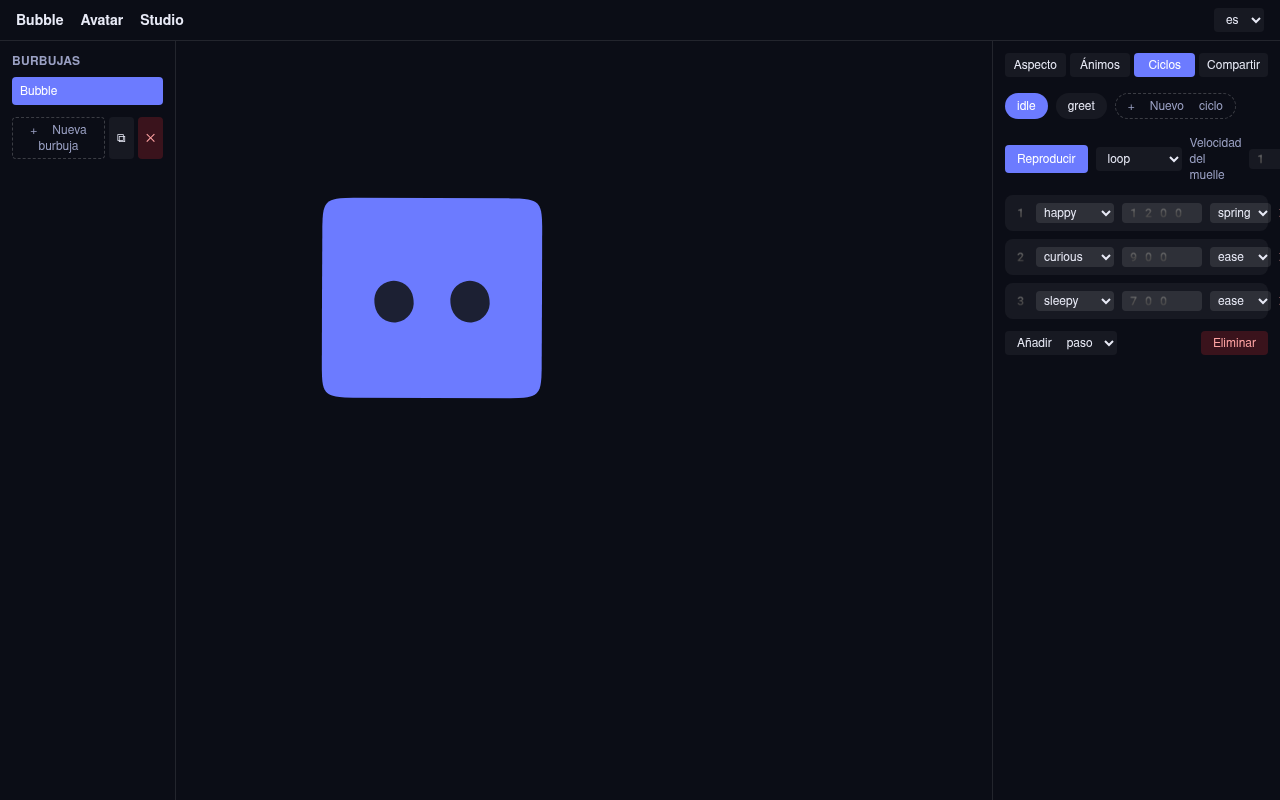
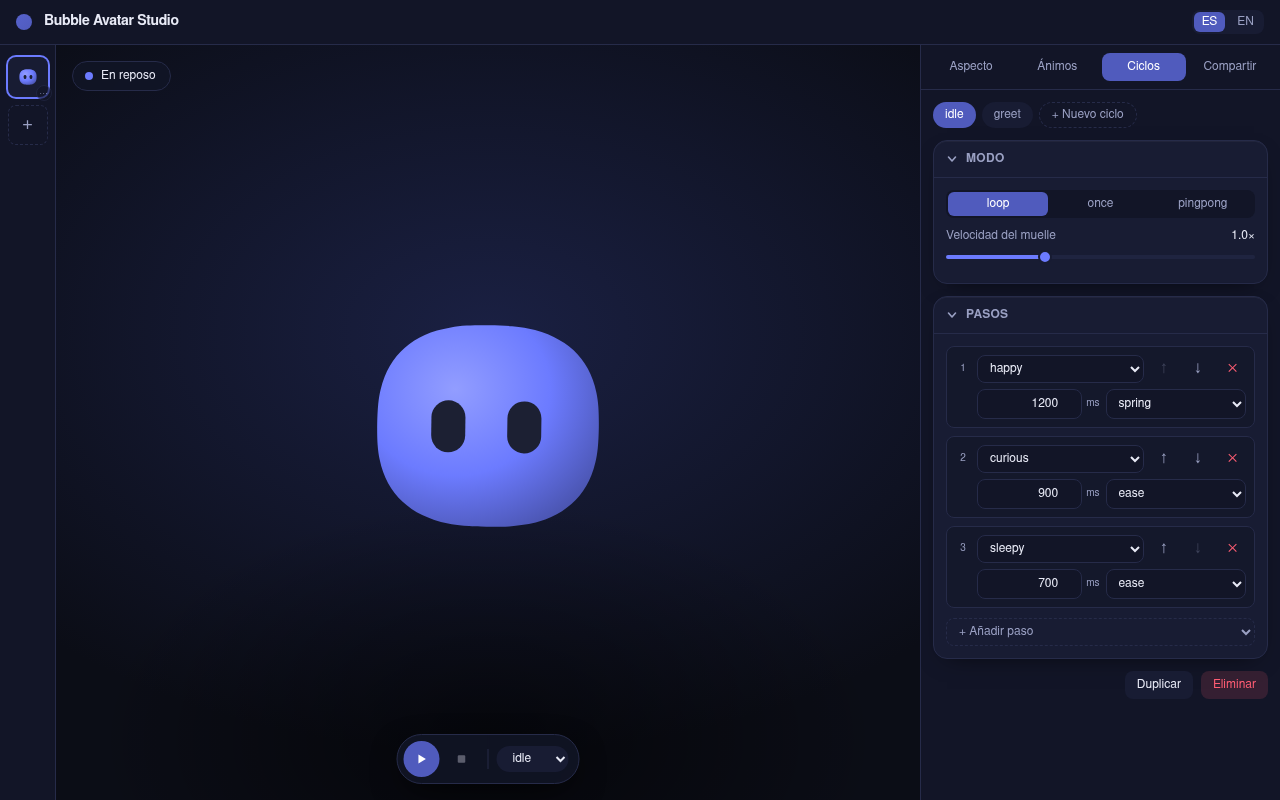
Widen the visual smoke and record what the UI pass actually built
Adds a rail context-menu scenario to the Playwright smoke, updates the
existing three for the transport moving to the stage dock, and refreshes
the archived screenshots. They are artifacts for manual review against
docs/05, not goldens — the stage runs ambient idle motion, so pixels
differ between runs.

docs/05 now marks each item [built] or [target] so an unmarked sentence
stops reading as a claim about what runs, and records the measured
56px / 360px the shell actually ships. The roadmap splits P4 into what
landed and what is still open, and names the two a11y gaps the docs
audit surfaced. README re-derives the gate at 223 tests across 22 files.

Claude-Session: https://claude.ai/code/session_01QUb44eBd4gZMCKsVHBP7vC

diff --git a/e2e/smoke.spec.ts b/e2e/smoke.spec.ts
@@ -5,6 +5,16 @@ import { expect, test } from "@playwright/test";
 
 const SHOTS = "docs/screenshots";
 
+/**
+ * Panel transitions run for 150ms (docs/05 §4). Capturing straight after a
+ * click archives a frame mid-fade, where the tab strip still highlights the
+ * previous tab — settle first so the screenshots show a resting UI.
+ */
+async function shoot(page: import("@playwright/test").Page, name: string) {
+  await page.waitForTimeout(250);
+  await page.screenshot({ path: `${SHOTS}/${name}.png` });
+}
+
 test("boot: studio shell renders with a starter bubble", async ({ page }) => {
   await page.goto("/");
   await expect(
@@ -12,8 +22,11 @@ test("boot: studio shell renders with a starter bubble", async ({ page }) => {
   ).toBeVisible();
   await expect(page.getByLabel("bubble stage")).toBeVisible();
   await expect(page.getByRole("tab", { name: "Aspecto" })).toBeVisible();
-  await expect(page.getByRole("button", { name: "+ Nueva burbuja" })).toBeVisible();
-  await page.screenshot({ path: `${SHOTS}/boot.png` });
+  await expect(page.getByRole("button", { name: "Nueva burbuja" })).toBeVisible();
+  // Transport lives on the stage dock now (docs/05 §1).
+  await expect(page.getByRole("button", { name: "Reproducir" })).toBeVisible();
+  await expect(page.getByRole("status")).toContainText("En reposo");
+  await shoot(page, "boot");
 });
 
 test("panels: look, moods, loops and share tabs expose their controls", async ({
@@ -23,40 +36,49 @@ test("panels: look, moods, loops and share tabs expose their controls", async ({
 
   // Look is the default tab.
   await expect(page.getByText("Perspectiva")).toBeVisible();
-  await page.screenshot({ path: `${SHOTS}/panel-look.png` });
+  await shoot(page, "panel-look");
 
   await page.getByRole("tab", { name: "Ánimos" }).click();
   await expect(
     page.getByRole("button", { name: "Nuevo ánimo" }),
   ).toBeVisible();
-  await page.screenshot({ path: `${SHOTS}/panel-moods.png` });
+  await shoot(page, "panel-moods");
 
   await page.getByRole("tab", { name: "Ciclos" }).click();
   await expect(page.getByRole("button", { name: "+ Nuevo ciclo" })).toBeVisible();
-  await page.screenshot({ path: `${SHOTS}/panel-loops.png` });
+  await shoot(page, "panel-loops");
 
   await page.getByRole("tab", { name: "Compartir" }).click();
-  await expect(page.getByRole("heading", { name: "Photo Mode" })).toBeVisible();
+  await expect(page.getByRole("button", { name: /Photo Mode/ })).toBeVisible();
   await expect(
     page.getByRole("button", { name: ".bubble-avatar.json" }),
   ).toBeVisible();
-  await page.screenshot({ path: `${SHOTS}/panel-share.png` });
+  await shoot(page, "panel-share");
 });
 
 test("playing loop: transport toggles playback and the stage animates", async ({
   page,
 }) => {
   await page.goto("/");
-  await page.getByRole("tab", { name: "Ciclos" }).click();
 
   const play = page.getByRole("button", { name: "Reproducir" });
   await expect(play).toBeVisible();
   await play.click();
-  await expect(
-    page.getByRole("button", { name: "Pausar" }),
-  ).toBeVisible();
+  await expect(page.getByRole("button", { name: "Pausar" })).toBeVisible();
+  await expect(page.getByRole("status")).toContainText("Reproduciendo");
 
   // Let the StageEngine advance a few frames so the capture shows motion.
   await page.waitForTimeout(600);
-  await page.screenshot({ path: `${SHOTS}/playing-loop.png` });
+  await shoot(page, "playing-loop");
+});
+
+test("rail: the context menu carries rename, reorder and delete", async ({
+  page,
+}) => {
+  await page.goto("/");
+  await page.getByRole("button", { name: "Acciones de la burbuja" }).click();
+  const menu = page.getByRole("menu");
+  await expect(menu.getByRole("menuitem", { name: "Duplicar" })).toBeVisible();
+  await expect(menu.getByRole("menuitem", { name: "Eliminar" })).toBeVisible();
+  await shoot(page, "rail-menu");
 });

diff --git a/docs/05-ui-design.md b/docs/05-ui-design.md
@@ -5,9 +5,12 @@
 
 > **This is a target, not a description.** Written before the UI existed, it
 > still describes where the studio is going. Items marked **[built]** exist
-> today; **[target]** ones do not yet, and are tracked as roadmap P4. Measured
-> sizes below are the target — the shell currently ships a 176px rail and a
-> 288px inspector. Do not read an unmarked sentence as a claim about what runs.
+> today; **[target]** ones do not yet, and are tracked as roadmap P4. Do not
+> read an unmarked sentence as a claim about what runs.
+>
+> The rail and inspector now ship at the documented sizes (56px / 360px,
+> `w-14` / `w-90`); an earlier note here recorded them as 176px and 288px,
+> which the P4 UI pass closed.
 
 ## 1. Layout
 
@@ -26,27 +29,31 @@
 - **Rail (56px):** vertical bubble thumbnails (live mini-renders), active
   highlighted, `+` at bottom. Context menu (right-click / kebab): rename,
   duplicate, move up/down, delete (confirm).
-  **[built]** the list, active highlight, add, duplicate, delete-with-confirm.
-  **[target]** thumbnails, rename, move up/down, the context menu itself.
+  **[built]** all of the above: the list with live mini-render thumbnails,
+  active highlight, add, and a per-bubble context menu (kebab or right-click)
+  carrying rename, duplicate, move up/down and delete-with-confirm. The menu
+  closes on Escape or an outside click.
 - **Stage:** soft radial gradient backdrop (indigo-950→black), bubble centered.
   Overlays: top-left status pill (`● playing idle` / `paused`), top-right gizmo
   button, bottom transport dock (play/pause/stop + loop selector dropdown).
   **Drag turns the head** (FR-8.1, amended — see `docs/02` and the session-2
   recon notes); position is set numerically in the Look panel. Esc restores the
   pre-drag rotation.
-  **[built]** drag-to-turn with Esc restore, and the projected surface the face
-  is anchored to. **[target]** the status pill, the gizmo and its rotation pad,
-  the bottom transport dock, and the guide overlay (FR-8.4) — playback controls
-  currently live in the Loops panel instead of on the stage.
+  **[built]** drag-to-turn with Esc restore, the projected surface the face is
+  anchored to, the radial backdrop, the top-left status pill (dot + words, so
+  state never rests on colour alone) and the bottom transport dock with its
+  loop selector. The dock owns playback for the whole app and is reachable from
+  every tab; it hides itself when the kit has no loops (FR-5.2).
+  **[target]** the gizmo and its rotation pad, and the guide overlay (FR-8.4).
 - **Inspector (360px):** tab strip + scrollable panel.
 
 ## 2. Panels
 
 ### Look (body & resting face)
 
-**[built]** every section below, and an Ambient card for idle motion (FR-7.1),
-though the cards do not collapse yet. **[target]** collapsing, and
-drag-to-scrub on the numeric labels (FR-9.5).
+**[built]** every section below, and an Ambient card for idle motion (FR-7.1).
+The cards collapse and reopen, remembering nothing across a reload by design.
+**[target]** drag-to-scrub on the numeric labels (FR-9.5).
 
 Sections as collapsible cards:
 
@@ -62,9 +69,10 @@ Sections as collapsible cards:
 ### Moods
 
 **[built]** the card grid with true mini-renders, click-to-preview on the stage,
-the delta sliders, the colour override and cancelable edits. **[target]** the
-modal editor, per-eye editing with mirror, rename/duplicate/reorder, and the
-kebab menu.
+the delta sliders (each with a translated label, its own range and a unit), the
+colour override with a clear action, duplicate, and cancelable edits.
+**[target]** the modal editor, per-eye editing with mirror, rename/reorder, and
+the kebab menu.
 
 - Grid of mood cards (mini stage render + name), `+` card. Click = preview on
   stage (FR-4.4); double-click = open **Mood editor** (modal over inspector):
@@ -77,9 +85,11 @@ kebab menu.
 ### Loops
 
 **[built]** the loop list, step list with hold and transition per step, add and
-remove step, playback mode, springSpeed, and play/pause/stop. **[target]**
-grouping chips, drag-reorder and the ‹ › fallback, the blink card, the loop
-summary (FR-5.8), and rename/duplicate.
+remove step, the accessible ↑ ↓ reorder fallback, playback mode as a segmented
+control, springSpeed, and loop duplicate. Playback itself moved to the stage
+dock, so this panel no longer carries transport buttons. **[target]** grouping
+chips, drag-reorder itself, the blink card, the loop summary (FR-5.8), and loop
+rename.
 
 - Left: loop list grouped by `group` label (Life / Reactions custom chips);
   `+` new loop. Selecting a loop loads the **timeline**.
@@ -88,7 +98,8 @@ summary (FR-5.8), and rename/duplicate.
   (buttons ‹ › as accessible fallback); `+` opens mood picker; ✕ removes step.
 - Loop settings row: mode segmented control (Loop / Once / Ping-pong),
   springSpeed slider 0.1–3, blink card (toggle + min/max interval + duration).
-- Transport "Play" always plays the selected loop.
+- Transport "Play" always plays the selected loop. It lives on the stage dock
+  (§1), which shares its loop selection with this panel.
 
 ### Share (export)
 
@@ -110,16 +121,56 @@ The language control ships in the header rather than this panel.
 
 ## 3. Interaction states & a11y
 
-- Every numeric input: label + unit suffix, ↑↓ steppers, arrow-key support.
-- Focus rings visible on dark stage; all actions keyboard-reachable; drag
-  operations have button fallbacks.
-- Empty states: no bubbles → stage shows "Crea tu primera bubble" + `+` hint.
-- Destructive actions (delete bubble/loop/mood, import replace) always confirm.
-- Color contrast ≥ 4.5:1 for text; status pill uses dot + text (not color only).
+- **[built]** Every numeric input: label + unit suffix, ↑↓ steppers, arrow-key
+  support (`NumberField` in `panels/look/fields.tsx`).
+- **[built]** Focus rings visible on dark stage — a single `:focus-visible`
+  rule in `styles.css` paints the accent on every surface. Reorder actions have
+  button fallbacks (rail move up/down, step ↑ ↓).
+- **[built]** Empty state: no bubbles → "Crea tu primera bubble" + `+` hint.
+- **[built]** Destructive actions confirm: deleting a **bubble** (FR-1.5), a
+  **loop**, or a **mood**, and replacing the project on **import** (FR-9.3).
+  Re-derive with
+  `grep -rn "confirm(" src/app --include=*.tsx | grep -v test`, which should
+  return four guarded call sites. A confirmed mood delete can still be refused
+  by the reducer if a loop references it (E_REF, FR-5.6) — the gate and the
+  invariant are independent.
+- **[built]** Status pill uses dot + text, not colour alone. Every text pair
+  clears 4.5:1 and every non-text mark clears 3:1 — asserted in
+  `src/app/theme.test.ts`, which parses the real tokens out of `styles.css`, so
+  a palette edit that breaks the rule fails the suite instead of shipping.
+  Run `pnpm vitest run src/app/theme.test.ts` to re-derive rather than trusting
+  this line.
 
 ## 4. Visual language
 
-- Font: system stack (`Inter` fallback); radius 12–16px cards; 8px spacing grid.
-- Palette: bg `#0b0d16` stage / `#121527` panels; primary `#6c7bff`; accent
-  `#8be9ff`; text `#e8eaf6`; danger `#ff5d73`. (Tailwind theme tokens.)
-- Motion: panel transitions ≤ 160ms ease-out; stage animation owned by engine.
+All three bullets are **[built]** as Tailwind v4 `@theme` tokens in
+`src/app/styles.css`; components reference them by utility name (`bg-panel`,
+`text-ink-dim`, `rounded-card`) rather than repeating hex literals.
+
+- Font: `Inter` first in `--font-sans`, falling back to the system stack;
+  `--radius-card` is 14px, inside the documented 12–16px. Spacing runs on
+  Tailwind's 4px base (`--spacing: .25rem`) using 8px and 12px steps — a finer
+  grid than the 8px this section originally specified.
+- Palette: bg `#0b0d16` stage / `#121527` panels; accent `#8be9ff`; text
+  `#e8eaf6`; danger `#ff5d73` all ship verbatim.
+
+  **The primary moved.** This section originally specified primary `#6c7bff`,
+  and the UI used it as the fill behind white text. That pairing measures
+  3.55:1 — under the 4.5:1 §3 requires — and the hover fill was worse at
+  2.66:1. The indigo therefore split by role, keeping the same hue (234°):
+  `--color-primary` `#505bbd` (5.88:1) and `--color-primary-hi` `#5662cc`
+  (5.23:1) for fills that carry text, and `--color-brand` `#6c7bff` — the
+  original value — for marks that never sit behind text: the active rail ring,
+  the slider fill and thumb, the resting status dot.
+
+  Note the avatar's own default body colour is still `#6c7bff`; it lives in
+  `domain/document/create.ts` as document data, is independent of these chrome
+  tokens, and is a fill rather than text, so the text rule does not apply.
+
+  The implementation also adds surface tokens the original palette did not
+  name — `--color-stage-glow` (stage backdrop), `--color-panel-2` /
+  `--color-panel-3` (card and control grounds), `--color-line` (borders) and
+  `--color-ink-dim`.
+- Motion: panel transitions are 150ms ease-out, inside the ≤ 160ms budget;
+  stage animation is owned by the engine. A `prefers-reduced-motion` block
+  collapses every transition to ~0ms.

diff --git a/docs/07-testing-strategy.md b/docs/07-testing-strategy.md
@@ -19,7 +19,8 @@
 | `export/`        | Vitest                           | Avatar/project file builders (round-trip: export → validate → import → deep-equal), loop pruning, orphan-mood pruning, error codes                                             |
 | `app/` UI        | Vitest + Testing Library (jsdom) | User flows: create bubble, edit mood deltas with cancel restoring stage, linked-eye mirroring, loop step reorder keeps moodId, import confirmation gate, i18n key parity es/en |
 | `runtime/`       | Vitest + Testing Library         | Renders resting face from a definition; starts/pauses; identical SVG vs studio for same state (FR-10.4)                                                                        |
-| Visual smoke     | Playwright (F5 only)             | Screenshots of studio boot, each panel, a playing loop; manual review vs `05-ui-design.md`                                                                                     |
+| Theme a11y       | Vitest (parses `styles.css`)     | Contrast ratios computed from the real tokens: >= 4.5:1 for every text pair, >= 3:1 for non-text marks (`docs/05` §3). A palette edit that breaks the rule fails here             |
+| Visual smoke     | Playwright (F5 only)             | Screenshots of studio boot, each panel, a playing loop and the rail context menu; asserts the stage dock and status pill; manual review vs `05-ui-design.md`                   |
 
 ## 3. Timing tests (the critical ones — FR-6.3)
 
@@ -51,9 +52,14 @@ described them as existing before they were written.
 
 ## 4b. Current state (re-derive; do not trust)
 
-As of the P2 parity work: **21 Vitest files, 195 tests**, plus **1 Playwright
-spec** covering boot, panels and a playing loop. Production bundle 254.96 kB JS
-/ 13.98 kB CSS (78.27 / 3.54 gzipped).
+As of the P4 UI pass: **22 Vitest files, 223 tests**, plus **1 Playwright
+spec** of **4 scenarios** covering boot, panels, a playing loop and the rail
+context menu. Production bundle 267.09 kB JS / 26.20 kB CSS (81.73 / 5.74
+gzipped).
+
+The CSS roughly doubled against the P2 figure recorded here before
+(13.98 kB): the design tokens, the collapsible-card chrome and the explicit
+range/swatch styling in `styles.css` are all new surface area.
 
 Re-derive rather than trusting these: `pnpm test` prints the file and test
 counts, `pnpm build` prints the bundle sizes. They are recorded here as a

diff --git a/docs/08-roadmap.md b/docs/08-roadmap.md
@@ -74,12 +74,28 @@ Bring the app level with what the concept demands, per the feature inventory in
   control in the Look panel.
 - **P3** Content: a starter library of at least 24 moods (FR-4.7) and at least
   20 loops grouped life/reaction (FR-5.7), all original.
-- **P4** Remaining UI surfaces: loop rename/duplicate, step reorder, blink card
-  and loop summary (FR-5.2, FR-5.5, FR-5.8); stage transport dock with status
-  pill and rotation gizmo plus the guide overlay (FR-6.2, FR-8.2, FR-8.4);
-  Share loop picker, radial background and package example (FR-10.1, FR-10.3,
-  FR-10.5); rail rename, reorder and thumbnails (FR-1.2, FR-1.4); drag-to-scrub
-  numeric labels (FR-9.5).
+- **P4 (in progress)** Remaining UI surfaces.
+
+  _Done:_ stage transport dock with status pill, owning playback for the whole
+  app (FR-6.2); rail thumbnails, rename and reorder behind a context menu
+  (FR-1.2, FR-1.4); loop duplicate and step reorder via the accessible ↑ ↓
+  fallback (FR-5.2, FR-5.5); mood duplicate; collapsible inspector cards on
+  shared design tokens; the rail and inspector at their documented 56px / 360px.
+
+  _Open:_ loop rename, blink card and loop summary (FR-5.8); rotation gizmo and
+  guide overlay (FR-8.2, FR-8.4); Share loop picker, radial background and
+  package example (FR-10.1, FR-10.3, FR-10.5); drag-reorder proper (the button
+  fallback exists, the drag does not); drag-to-scrub numeric labels (FR-9.5).
+
+  _a11y gaps surfaced by the docs audit and since closed:_
+
+  - Loop and mood delete now confirm, matching bubble-delete and import
+    (`docs/05` §3). Both were pre-existing, not P4 regressions.
+  - The primary indigo split by role so text-bearing fills clear 4.5:1
+    (`#505bbd` / `#5662cc`) while the vivid `#6c7bff` stays on non-text marks.
+    The audit had measured only the resting fill at 3.55:1; the contrast test
+    written for the fix caught the hover fill at 2.66:1 as well.
+    `src/app/theme.test.ts` now guards the whole palette.
 
 - **AC:** `pnpm check` green per step; every FR above covered by a test that
   names it; a visual pass in a real browser, not only jsdom.

diff --git a/README.md b/README.md
@@ -28,15 +28,23 @@ under `docs/screenshots/` by `pnpm e2e`.
 
 Working toward feature parity with the concept it reimplements; see
 `docs/08-roadmap.md` for phases and `docs/02-functional-spec.md` for the
-requirements each one closes. Current gate: **195 tests across 21 files**, plus
-a Playwright smoke — re-derive with `pnpm test` rather than trusting this line.
+requirements each one closes. Current gate: **223 tests across 22 files**, plus
+a Playwright smoke of 4 scenarios — re-derive with `pnpm test` rather than
+trusting this line.
 
 Landed so far: the pure domain, render, export and runtime layers; a studio
 shell reaching the whole body model; a projected face that gives the character
-volume; and idle behaviour (blink, micro-saccades, breathing) so a resting
-bubble looks alive. Still open: the shape families reaching the schema and UI,
-a larger starter library, and the stage/loops/share surfaces listed under
-roadmap P4. `docs/05-ui-design.md` marks each item **[built]** or **[target]**.
+volume; idle behaviour (blink, micro-saccades, breathing) so a resting bubble
+looks alive; and the P4 UI pass — a 56px rail of live thumbnails with a
+rename/duplicate/reorder/delete menu, a stage carrying the status pill and the
+transport dock, and a 360px inspector of collapsible cards on shared design
+tokens.
+
+Still open: the shape families reaching the schema and UI, a larger starter
+library, and the rest of roadmap P4 — the rotation gizmo and guide overlay,
+the blink card and loop summary, drag-reorder and drag-to-scrub, and the Share
+loop checklist and radial background.
+`docs/05-ui-design.md` marks each item **[built]** or **[target]**.
 
 ## Architecture
 
